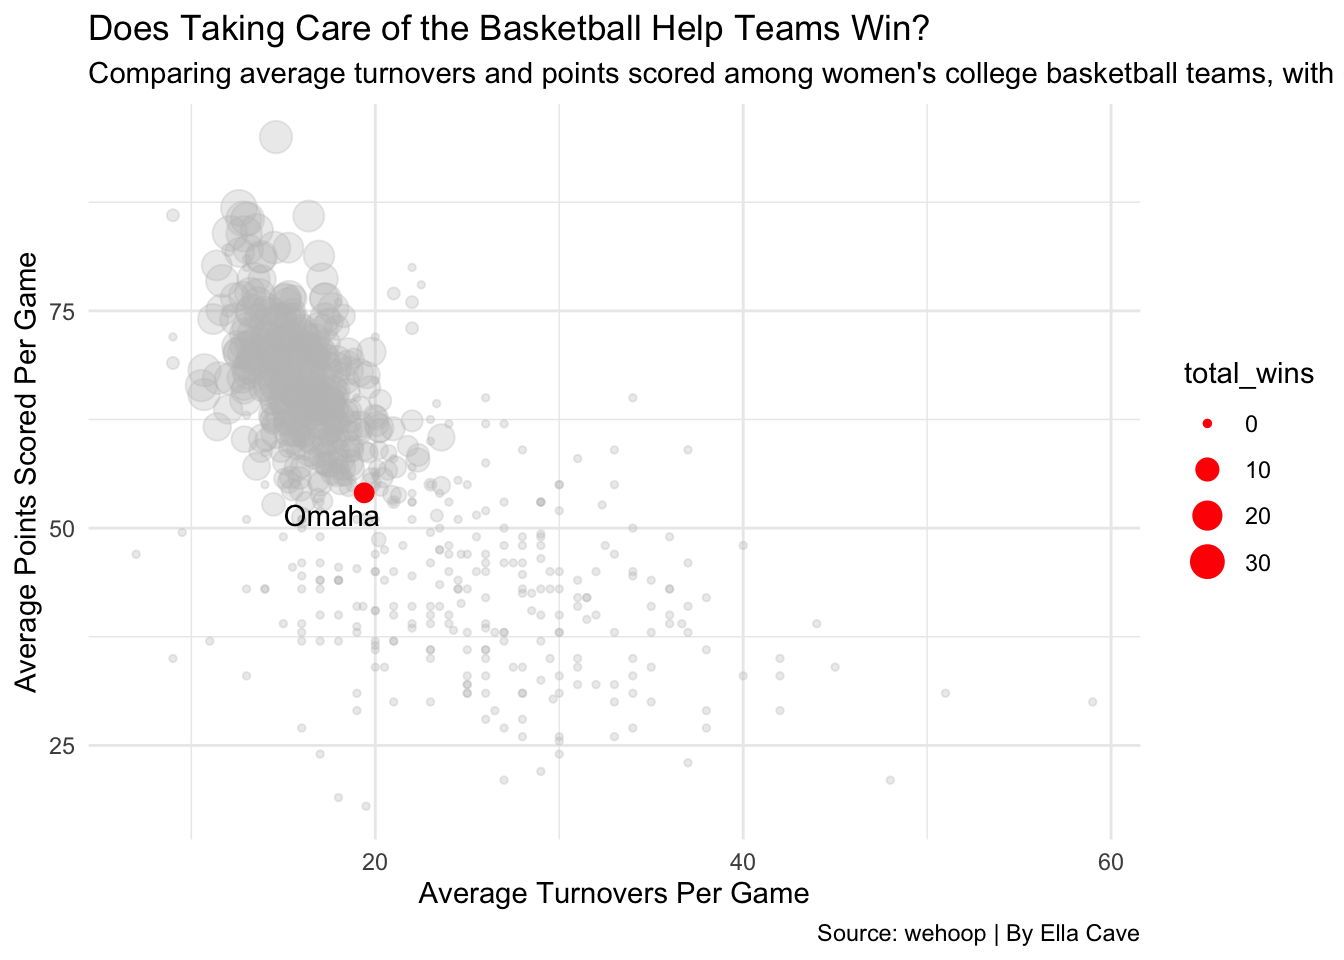
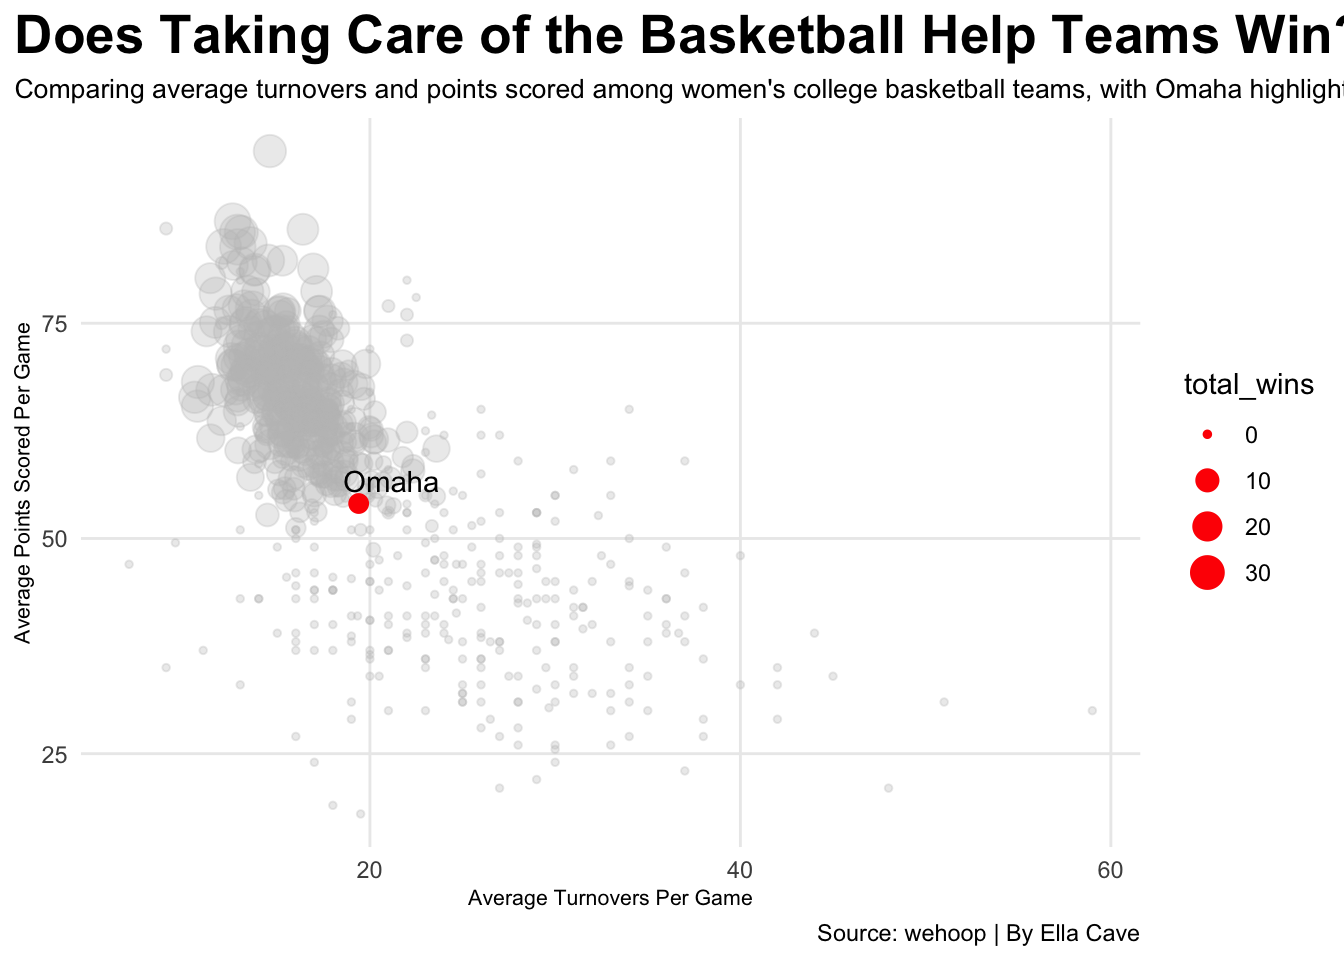
change false

diff --git a/posts/omaha-womens-basketball/index.html b/posts/omaha-womens-basketball/index.html
@@ -367,9 +367,7 @@ pre > code.sourceCode > span > a:first-child::before { text-decoration: underlin
 
 
 <p>This is a story about Women’s College Basketball and how the University of Nebraska-Omaha compares to other college basketball teams.</p>
-<p>Scoring points is one of the biggest ways teams win games, but it isn’t the only thing that contributes to a win. A team’s defense and ability to handle the basketball can also create a huge difference in a game. Now, in women’s college basketball, some teams score a lot more points on average than other teams, but does that mean they are more successful than other lower-scoring teams?</p>
-<p>For this project, I wanted to look at women’s college basketball team stats from the 2025-26 season to see what stats might be related to the success of teams. I also want to look at the average points scored, the average points teams allow, and their turnover margin. Then connect that to how the University of Nebraska-Omaha women’s basketball team compares to others.</p>
-<p>My first chart is a bar chart talking about the women’s college basketball teams with the highest average points and how UNO differs from them.</p>
+<p>Scoring points is one of the biggest ways teams win games, but it isn’t the only thing that contributes to a win. A team’s defense and ability to handle the basketball can also create a huge difference in a game. Now, in women’s college basketball, some teams score a lot more points on average than other teams, but does that mean they are more successful than other lower-scoring teams? For this project, I wanted to look at women’s college basketball team stats from the 2025-26 season to see what stats might be related to the success of teams. I also want to look at the average points scored, the average points teams allow, and their turnover margin. Then connect that to how the University of Nebraska-Omaha women’s basketball team compares to others. My first chart is a bar chart talking about the women’s college basketball teams with the highest average points and how UNO differs from them.</p>
 <div class="cell">
 <details class="code-fold">
 <summary>Code</summary>
@@ -555,7 +553,7 @@ $ PF              &lt;dbl&gt; 561, 562, 666, 568, 567, 715, 439, 560, 371, 492, 
 </div>
 </div>
 </div>
-<p>If you look at the chart above, you can see that there’s a big difference between the top 15 scoring teams and UNO. The top teams are averaging 75 + points per game, and UNO is averaging a little more than 50. This chart shows that UNO scores a lot less per game than the top 15 teams. As I said before scoring does help team win games, but doesn’t mean they are successful all together. Before we think of everything all together, let’s look at a scatterplot comparing UNO’s average points scored and average points allowed. This will show whether they have strong defenses and offenses when they win.</p>
+<p>If you look at the chart above, you can see that there’s a big difference between the top 15 scoring teams and UNO. The top teams are averaging 75 + points per game, and UNO is averaging a little more than 50. This chart shows that UNO scores a lot less per game than the top 15 teams. As I said before scoring does help teams win games, but doesn’t mean they are successful all together. Before we think of everything all together, let’s look at a scatterplot comparing UNO’s average points scored and average points allowed. This will show whether they have strong defenses and offenses when they win.</p>
 <div class="cell">
 <details class="code-fold">
 <summary>Code</summary>
@@ -706,8 +704,7 @@ $ `Coach(es)`       &lt;chr&gt; "Jamie Carey (6-27)", "Carrie Banks (14-17)", "C
 </div>
 </div>
 </div>
-<p>The scatterplot shows how the top 15 scoring teams and UNO compare in offense and defense through the points they allowed and points they scored. The top 15 teams on the right side show that they are scoring more and are letting their opponents fewer points. This shows that having a strong offense doesn’t always mean a team has the strongest defense.</p>
-<p>As you can see, the red dot is UNO. UNO has scored a lot fewer points than the top 15 teams, and they have allowed more points to opponents. UNO doesn’t have the same outcome as the top-scoring teams in women’s college basketball, as you can tell by their lower scoring percentage. But I will say the points scored and points allowed are still not the only stats that can help a team be successful. One more stat I want to look at is the turnover margin for teams and how well a team can take care of the ball.</p>
+<p>The scatterplot shows how the top 15 scoring teams and UNO compare in offense and defense through the points they allowed and points they scored. The top 15 teams on the right side show that they are scoring more and are letting their opponents fewer points. This shows that having a strong offense doesn’t always mean a team has the strongest defense. UNO is that far red dot, as you can see, they have scored a lot fewer points than the top 15 teams, and they have allowed more points to opponents. UNO doesn’t have the same outcome as the top-scoring teams in women’s college basketball, looking at their lower scoring percentage. But I will say the points scored and points allowed are still not the only stats that can help a team be successful. One more stat I want to look at is the turnover margin for teams and how well a team can take care of the ball.</p>
 <div class="cell">
 <details class="code-fold">
 <summary>Code</summary>
@@ -868,7 +865,14 @@ $ lead_percentage                   &lt;chr&gt; "0", "98", "5", "95", "63", "25"
 <span id="cb32-19"><a href="#cb32-19" aria-hidden="true" tabindex="-1"></a>    <span class="at">subtitle=</span><span class="st">"Comparing average turnovers and points scored among women's college basketball teams, with Omaha highlighted in red."</span>,</span>
 <span id="cb32-20"><a href="#cb32-20" aria-hidden="true" tabindex="-1"></a>    <span class="at">caption=</span><span class="st">"Source: wehoop | By Ella Cave"</span></span>
 <span id="cb32-21"><a href="#cb32-21" aria-hidden="true" tabindex="-1"></a>  ) <span class="sc">+</span></span>
-<span id="cb32-22"><a href="#cb32-22" aria-hidden="true" tabindex="-1"></a>  <span class="fu">theme_minimal</span>()</span></code></pre></div><button title="Copy to Clipboard" class="code-copy-button"><i class="bi"></i></button></div>
+<span id="cb32-22"><a href="#cb32-22" aria-hidden="true" tabindex="-1"></a>  <span class="fu">theme_minimal</span>() <span class="sc">+</span></span>
+<span id="cb32-23"><a href="#cb32-23" aria-hidden="true" tabindex="-1"></a> <span class="fu">theme</span>(</span>
+<span id="cb32-24"><a href="#cb32-24" aria-hidden="true" tabindex="-1"></a>     <span class="at">plot.title =</span> <span class="fu">element_text</span>(<span class="at">size =</span> <span class="dv">20</span>, <span class="at">face =</span> <span class="st">"bold"</span>), </span>
+<span id="cb32-25"><a href="#cb32-25" aria-hidden="true" tabindex="-1"></a>     <span class="at">axis.title =</span> <span class="fu">element_text</span>(<span class="at">size =</span> <span class="dv">8</span>),</span>
+<span id="cb32-26"><a href="#cb32-26" aria-hidden="true" tabindex="-1"></a>     <span class="at">plot.subtitle =</span> <span class="fu">element_text</span>(<span class="at">size =</span> <span class="dv">10</span>),</span>
+<span id="cb32-27"><a href="#cb32-27" aria-hidden="true" tabindex="-1"></a>     <span class="at">panel.grid.minor =</span> <span class="fu">element_blank</span>(), </span>
+<span id="cb32-28"><a href="#cb32-28" aria-hidden="true" tabindex="-1"></a>     <span class="at">plot.title.position =</span> <span class="st">"plot"</span></span>
+<span id="cb32-29"><a href="#cb32-29" aria-hidden="true" tabindex="-1"></a> )</span></code></pre></div><button title="Copy to Clipboard" class="code-copy-button"><i class="bi"></i></button></div>
 </details>
 <div class="cell-output-display">
 <div>
@@ -878,8 +882,7 @@ $ lead_percentage                   &lt;chr&gt; "0", "98", "5", "95", "63", "25"
 </div>
 </div>
 </div>
-<p>The chart shows that teams with fewer turnovers and higher scoring averages have more wins. UNO is highlighted and looks to be a little below average compared to the rest of the teams. Although UNO isn’t turning the ball over that much, they still have a lower scoring average. This shows that taking care of the ball does help teams win.</p>
-<p>After looking at the bar chart, scatterplot, and bubble chart, I think that there is more than one specific thing that makes a successful college basketball team. Now, scoring points, having a strong defense, and limiting turnovers can really make a difference in being a successful team. Overall, for teams that can succeed in all three things and turn those good stats into actual wins can have a better chance at being successful.</p>
+<p>The chart shows that teams with fewer turnovers and higher scoring averages have more wins. UNO is highlighted and looks to be a little below average compared to the rest of the women’s college basketball teams. Although UNO isn’t turning the ball over that much, they still have a lower scoring average. This shows that taking care of the ball does help teams win. After looking at the bar chart, scatterplot, and bubble chart, I think that there is more than one specific thing that makes a successful college basketball team. Scoring points, having a strong defense, and limiting turnovers can really make a difference in being a successful team. Overall, for teams that can succeed in all three things and turn those good stats into actual wins can have a better chance at being successful.</p>
 
 
 

diff --git a/index.html b/index.html
@@ -379,7 +379,7 @@ window.Quarto = {
 
 <div class="quarto-listing quarto-listing-container-default" id="listing-listing">
 <div class="list quarto-listing-default">
-<div class="quarto-post image-right" data-index="0" data-listing-date-sort="1668319200000" data-listing-file-modified-sort="1794595740302" data-listing-date-modified-sort="NaN" data-listing-reading-time-sort="6" data-listing-word-count-sort="1194">
+<div class="quarto-post image-right" data-index="0" data-listing-date-sort="1668319200000" data-listing-file-modified-sort="1794597296822" data-listing-date-modified-sort="NaN" data-listing-reading-time-sort="7" data-listing-word-count-sort="1243">
 <div class="thumbnail"><a href="./posts/omaha-womens-basketball/index.html" class="no-external-icon">
 
 <img loading="lazy" src="./posts/omaha-womens-basketball/image.png" class="thumbnail-image">
